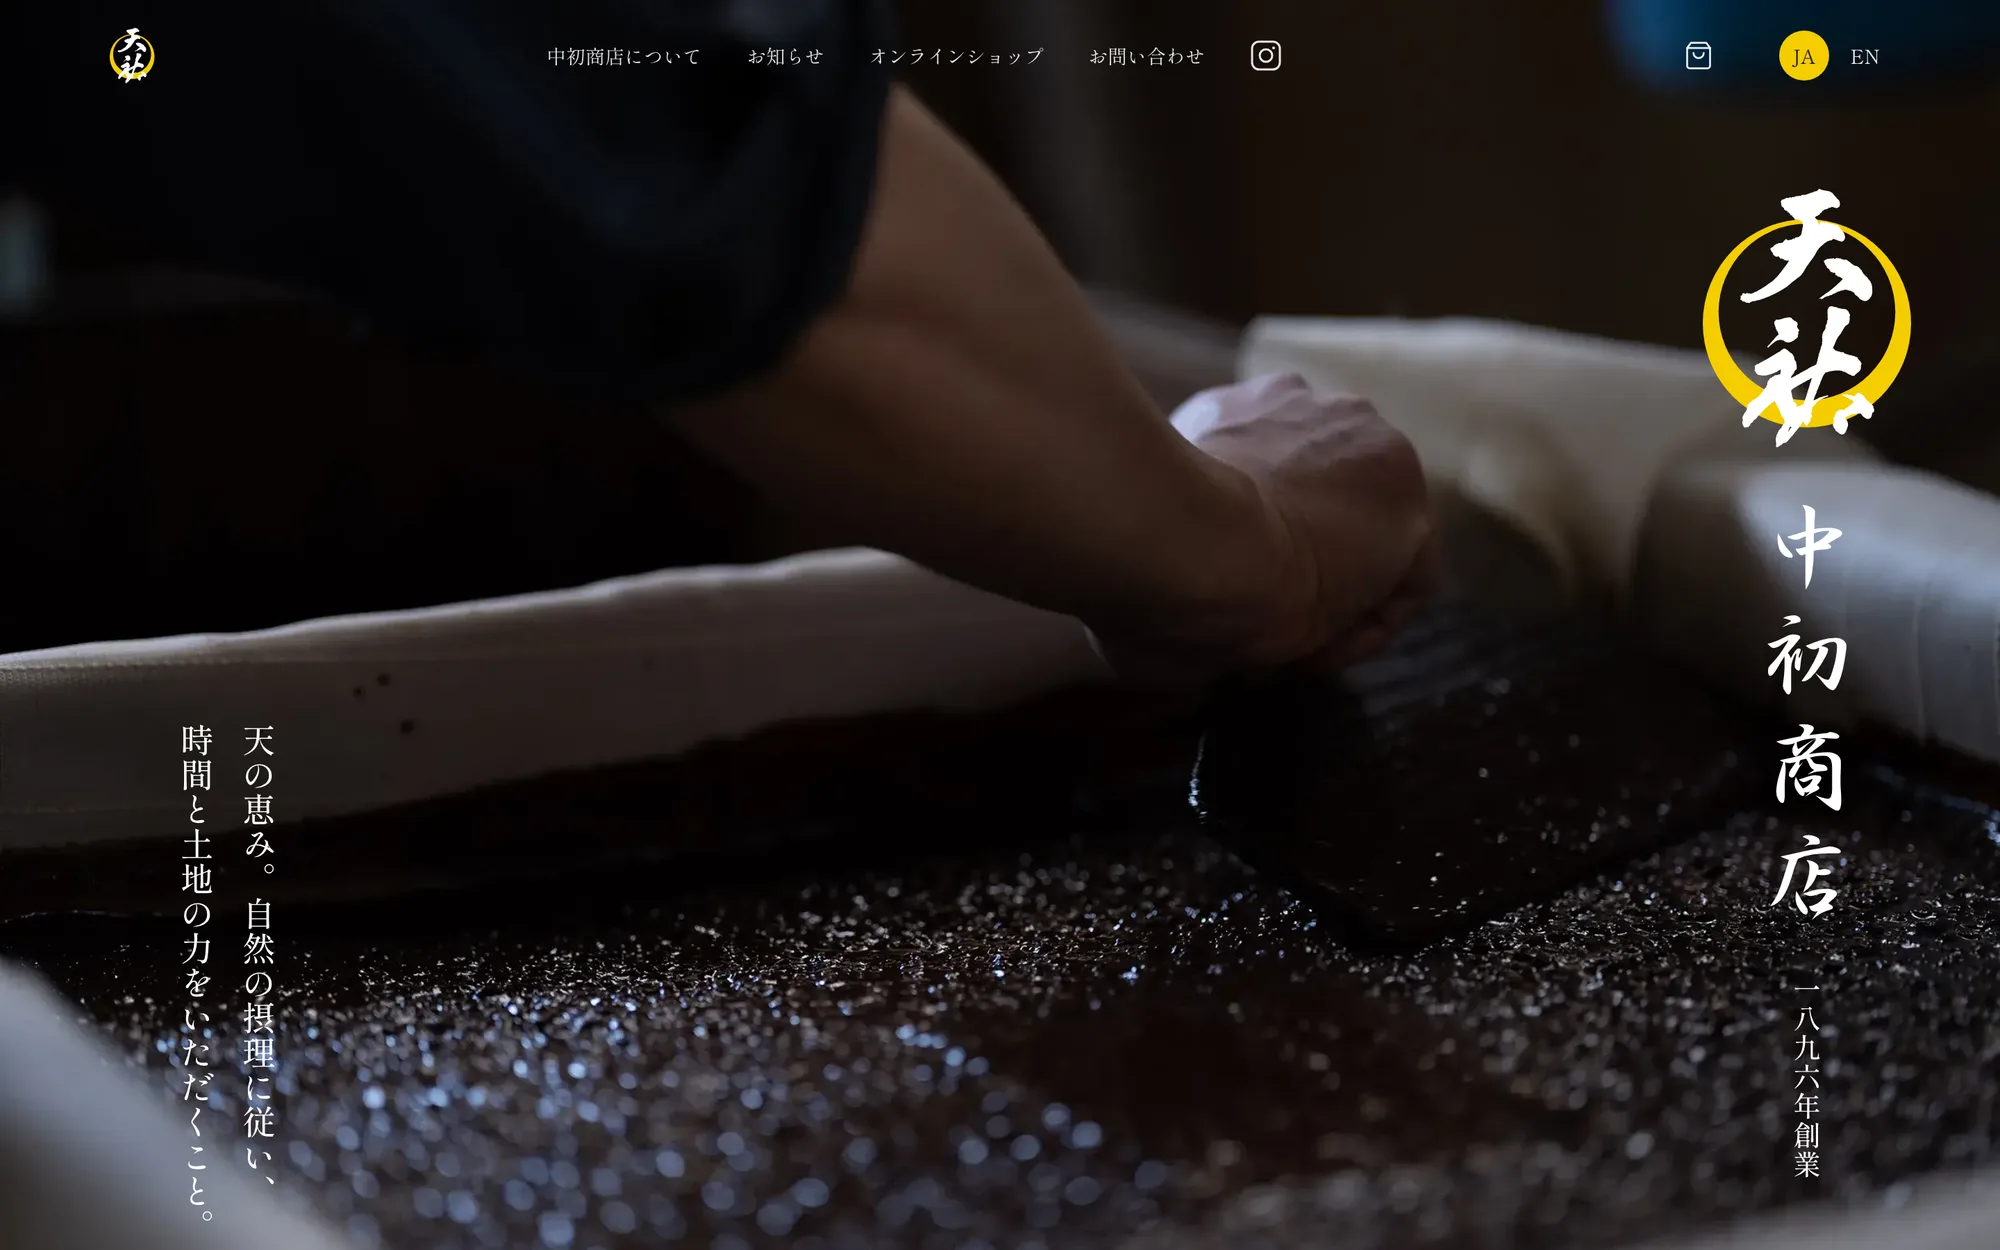
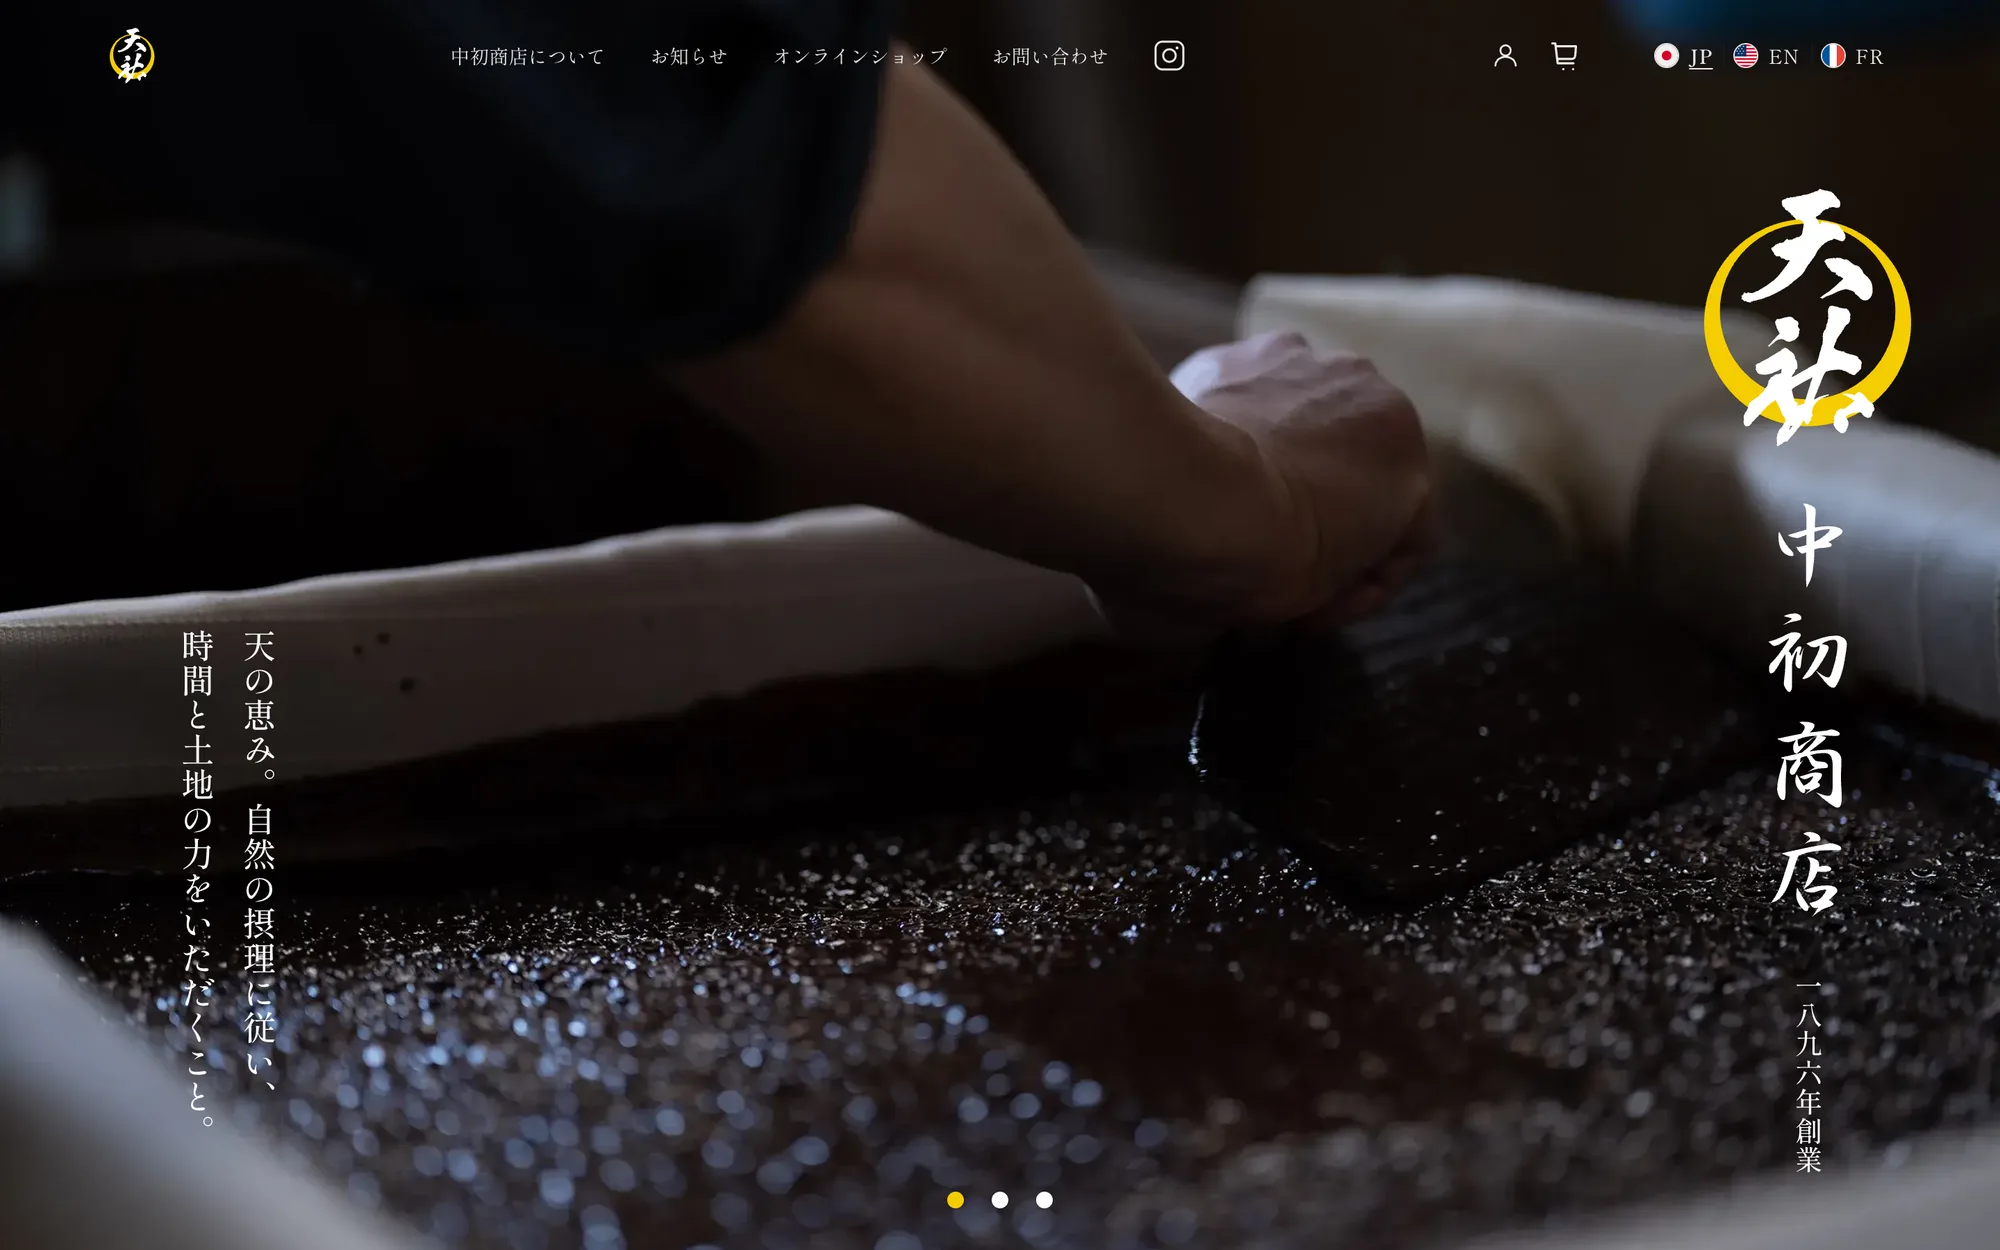
content(nakahatsu): re-shoot figures from the current live theme, add re-runnable capture script

diff --git a/docs/nakahatsu-figures.md b/docs/nakahatsu-figures.md
@@ -1,0 +1,16 @@
+# Nakahatsu case study figures
+
+Regenerate with `node scripts/capture-nakahatsu-figures.mjs` (needs `NAKAHATSU_STORE_URL`, and `NAKAHATSU_STORE_PASSWORD` while the store is password-protected; both can live in the gitignored `.nakahatsu-capture.env`). Then run `node scripts/generate-og-images.mjs`. Captured 2026-10-25 from the published theme of the dev store (hero pinned to slide 1, intro animation waited out).
+
+| File | Shows | Size | Caption / alt text (facts as displayed) |
+|---|---|---|---|
+| thumbnail-jp.webp | Japanese home page, first screen at 1440x900 | 2000x1250 | Home page in Japanese. A dark photo of a hand working koji. Vertical tagline 天の恵み。自然の摂理に従い、時間と土地の力をいただくこと。 on the left; the 天祐 emblem, 中初商店 and 一八九六年創業 set vertically on the right; nav 中初商店について / お知らせ / オンラインショップ / お問い合わせ; language switch JP, EN, FR; three carousel dots (first active). |
+| thumbnail-en.webp | English home page, same view | 2000x1250 | Same screen in English. Nav About / News / Online Shop / Contact. Tagline "Guided by nature. Perfected by time." is horizontal at bottom left; "Founded in 1896" and 中初商店 stay vertical on the right. Also used for public/og/nakahatsu.jpg. |
+| before-after.webp | Left: old WordPress company site over old EC-CUBE shop. Right: new store home (hero, news bar, start of About) | 1200x675 | Before: two separate systems, a WordPress company site (hero with the 天祐 emblem, "Since 1896") above an EC-CUBE shop (product list, bottles at ¥1,296 / ¥1,080 / ¥540). After: one Shopify storefront in Japanese with a language switch (JP/EN/FR), the hero, a news bar "お知らせ 2026.10.11 オンラインショップを新しくいたしました", and the heading 中初商店について. |
+| bilingual.webp | Same hero in Japanese (top) and English (bottom), 1440px | 1200x1636 | Japanese: tagline and brand name both vertical. English: nav in English, the tagline turns horizontal ("Guided by nature. Perfected by time."), "Founded in 1896" stays vertical and so does the brush-lettered 中初商店. A JP / EN / FR switch is in the header of both. (FR hero is captured in `.capture/nakahatsu/hero-fr-1440.png`, not composed.) |
+| responsive.webp | Home hero + news bar at 1440, 768 and 390px on one scale | 1200x675 | Three widths of the same page. At 1440 the nav sits across the top; at 768 and 390 it collapses to a menu icon. The vertical tagline and the vertical brand stay in place at every width; the news bar "お知らせ" follows the hero. |
+| products.webp | Product grid, PC 1440, JA | 1200x675 | Heading あなたの食卓に、無添加の美味しさ and the first two rows of products on white cards: 天祐 丸大豆本醸造醤油 1000ml / 720ml / 200ml / 1000ml 金澤, then 天祐 米糀味噌 粒 800g / 粒 400g / すり 800g / すり 400g. No prices are shown in the grid. |
+| about-tenyu.webp (NEW) | About page, 天祐醤油 and 天祐味噌 sections, PC 1440, JA | 1200x675 | Two side-by-side blocks, each a photo with vertical body text over it and a vertical heading to its right: 天祐味噌 (headline 一般的な味噌よりも長めの一年以上天然醸造でじっくりと「醗酵・熟成」) and 天祐醤油 (一般的な醤油よりも長めの二年以上…). Below, the heading 中初の成り立ち. |
+| challenges.webp | UNCHANGED. Old-site screens (payment methods, fees, sign-up error) | 1200x910 | Not from the current theme; not re-shot. |
+
+Deliberately not used: the oidemashi section (owner portrait photo, Google Map, scroll-driven; not shot), the About photo band on the home page (Instagram-derived, 1518css and below), "Sample"-watermarked cards (素材/製法, 私たちとお客様), the loading intro.
